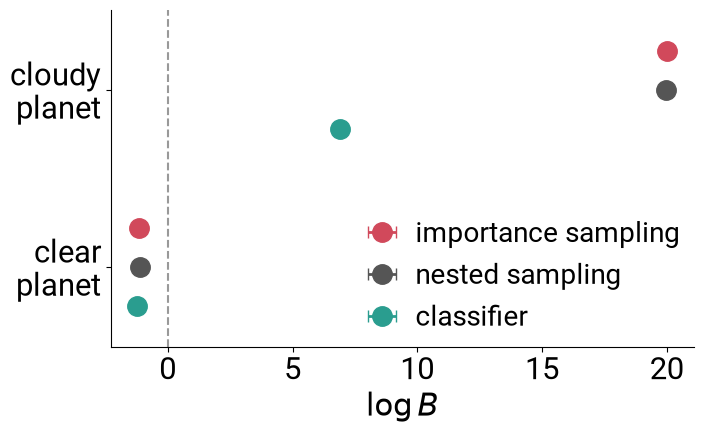
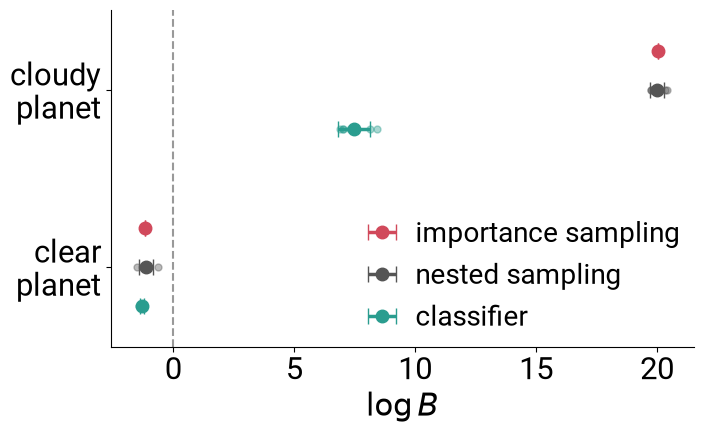
Slide 40: error bars over 6 runs per evidence estimate (IS, nested sampling, classifier)

diff --git a/tools/toy_mc.py b/tools/toy_mc.py
@@ -144,24 +144,28 @@ def figures():
     fig, ax = plt.subplots(figsize=(7.5, 4.8), dpi=100)
     methods = [("importance sampling", "is", "#d1495b"), ("nested sampling", "nested", "#555"),
                ("classifier", "clf", "#2a9d8f")]
+    def runs(o, key):
+        """log B(cloudy:clear) of every run: the original (seed 0) and the repetitions in D/rep/ (seeds 1..5)."""
+        R = D + "rep/"
+        lz = lambda f: float(np.load(f)["logz"])
+        seeds = range(1, 6) if os.path.isdir(R) else []
+        if key == "clf":
+            return [float(np.load(f"{D}classifier-logB-{o}.npy"))] + [float(np.load(f"{R}classifier-logB-{o}-s{s}.npy"))
+                                                                    for s in seeds]
+        if key == "nested":
+            return [lz(f"{D}cloudy-{o}/nested.npz") - lz(f"{D}clear-{o}/nested.npz")] + \
+                   [lz(f"{R}ns/cloudy-{o}-s{s}/nested.npz") - lz(f"{R}ns/clear-{o}-s{s}/nested.npz") for s in seeds]
+        return [lz(f"{D}cloudy-{o}/is.npz") - lz(f"{D}clear-{o}/is.npz")] + \
+               [lz(f"{R}cloudy-s{s}/{o}/is.npz") - lz(f"{R}clear-s{s}/{o}/is.npz") for s in seeds]
+
     for j, o in enumerate(OBS):
         for k, (label, key, c) in enumerate(methods):
-            if key == "clf":
-                p = f"{D}classifier-logB-{o}.npy"
-                if not os.path.exists(p):
-                    continue
-                v, e = float(np.load(p)), 0.0
-            else:
-                fs = [f"{D}{m}-{o}/{key}.npz" for m in MODELS]
-                if not all(os.path.exists(f) for f in fs):
-                    continue
-                a, b = np.load(fs[0]), np.load(fs[1])
-                ek = "logz_err" if key == "is" else "logzerr"
-                v = float(a["logz"] - b["logz"])
-                e = float(np.hypot(a[ek], b[ek])) if ek in a and ek in b else 0.0
+            v = np.array(runs(o, key))
             y = j + (k - 1) * 0.22
-            ax.errorbar([v], [y], xerr=[e], fmt="o", ms=14, color=c, elinewidth=2, capsize=4,
-                        label=label if j == 0 else None)
+            # each run as a faint dot, the mean with ±1 standard deviation over the runs
+            ax.plot(v, np.full(len(v), y), "o", ms=5, color=c, alpha=0.4, lw=0)
+            ax.errorbar([v.mean()], [y], xerr=[v.std(ddof=1) if len(v) > 1 else 0.0], fmt="o", ms=9, color=c,
+                        elinewidth=2.5, capsize=6, label=label if j == 0 else None)
     ax.axvline(0, color="#999", lw=1.5, ls="--")
     ax.set_yticks([0, 1])
     ax.set_yticklabels(["cloudy\nplanet", "clear\nplanet"])

diff --git a/todo.md b/todo.md
@@ -80,7 +80,7 @@ This file is the state of the project. Read it first at the start of every sessi
 - **Reference only:** `../2026 - SBI in HEP/` (SBI blueprint, 2023); the 2019 talks (Oxford, GRAPPA, DESY) list Bayesian model comparison among the uses of NRE.
 
 ## Pending
-- [ ] **T6.2.** Error bars on the evidence estimates (slide 40): 5 repetitions with new seeds (SEED env in toy_npe/toy_mc), same 500k training pairs per model. alan arrays: 40195 NPE retrain + IS (`.render/alan/mcrep_npe.sh`), 40196 nested sampling (`mcrep_nested.sh`), 40197 classifier (`mcrep_cls.sh`); outputs in `/scratch/.../mcrep/`. Seed 0 = existing results. Then: update `toy_mc.py figures` with error bars (Gilles must see before slide change? he asked for it).
+- [x] **T6.2.** Error bars on slide 40: 6 runs per estimate (seed 0 + 5 repetitions, alan arrays 40195/40196/40197; results fetched to `.render/data/toy-mc/rep/`), mean ± 1 std, runs as faint dots (`toy_mc.py figures`). Cloudy planet: NS +20.00 ± 0.30, IS +20.03 ± 0.01, classifier +7.46 ± 0.66 (saturated, unstable). Clear: NS -1.14 ± 0.29, IS -1.16 ± 0.003, classifier -1.30 ± 0.07. IS is ~30x more reproducible than NS, despite retraining.
 - [x] **T6.3.** Savage-Dickey check (no slide change): deep-cloud interval log Pc in [1.3, 1.5] is indistinguishable from clear (< 0.07 sigma); B(clear:cloudy) = P(interval | x) / 0.067. Clear planet: -1.17 (NS samples), -1.18 (IS), -1.25 (NPE) vs -1.11 from evidences. Cloudy planet: no samples in the interval, only log B > 5.6-6.1; NPE alone gives a wrong finite +5.25 from tail leakage.
 - [ ] **T6.1.** FMPE on the toy (`tools/toy_fmpe.py`, alan scripts `.render/alan/train_fmpe.sh`; local results in `.render/data/fmpe/`). Same embedding/pairs/noise as NPE; residual vector field, RK4 64 steps, exact divergence. Finding (2026-11-09): the vector field memorizes the training pairs (valid loss rises after ~5 epochs), so early stopping on validation; early-stopped posteriors are 1.5-2x wider than MCMC, IS efficiency 0.000-0.012 (NPE 0.57), log Z still matches NS (-55.8 vs -55.90). 500k: valid 2.61; width 128: 2.52; 2M pairs: 2.49. 10M pairs: the simulator costs ~58 ms/spectrum (not 4 ms), so 10M = ~160 CPU-h; first attempt (one 32-CPU job) cancelled; now sharded: alan array 40161 (20 x 500k, `.render/alan/sim_shards.sh`, OMP_NUM_THREADS=1) -> 40162 train, `/scratch/.../toy-10m/pairs-*.npz`. Possible talk message: FMPE is more flexible but needs more simulations. RESULT 10M (2026-11-09): no overfitting (best valid 2.32 at last epoch); posterior widths within ~8% of MCMC and means on MCMC (closer than NPE); IS efficiency 0.108 (NPE 0.57), log Z -55.71. ODE_STEPS=256: IS efficiency 0.087, log Z -55.77, so not solver error; FMPE posterior is slightly too narrow (light tails), which IS punishes; NPE (10-20% overdispersed) is the better proposal (0.57).
 

diff --git a/talk.md b/talk.md
@@ -820,7 +820,7 @@ On the right, a clear planet. Both models fit, the cloudy one by putting its clo
 
 class: middle
 
-<img src="figures/mc-bayes.png" style="display: block; margin: 0 auto; width: 46%;">
+<img src="figures/mc-bayes.png?v=2" style="display: block; margin: 0 auto; width: 46%;">
 
 The .bold[Bayes factor] $B = p(x | \text{cloudy}) \,/\, p(x | \text{clear})$ compares the evidence of the two models.
 
@@ -830,14 +830,14 @@ The .bold[Bayes factor] $B = p(x | \text{cloudy}) \,/\, p(x | \text{clear})$ com
 <div><span>Classifier</span>$$\log B \approx \log \frac{d_\psi(x)}{1 - d_\psi(x)}, \quad d_\psi(x) \approx p(\text{cloudy}|x)$$</div>
 </div>
 
-.footnote[Classifier: [Radev et al](https://arxiv.org/abs/2004.10629), 2020. Model comparison without the evidence: MIRA, [Sharief et al](https://arxiv.org/abs/2605.02014), ICML 2026.]
+.footnote[Error bars: one standard deviation over 6 runs with new seeds. Classifier: [Radev et al](https://arxiv.org/abs/2004.10629), 2020. Model comparison without the evidence: MIRA, [Sharief et al](https://arxiv.org/abs/2605.02014), ICML 2026.]
 
 
 ???
 
 The Bayes factor is the ratio of the evidences, the probabilities of the observation under each model. We estimate it in three ways.
 
-Nested sampling is the reference, with fifty thousand to a million likelihood calls per spectrum and model. Importance sampling gives the same answer, as the mean weight. A classifier needs no likelihood. Its log-odds give the Bayes factor, but they saturate on the cloudy planet, which is enough for a decision, not for a value.
+Nested sampling is the reference, with fifty thousand to a million likelihood calls per spectrum and model. Each estimate was repeated six times with new seeds, retraining the networks. Nested sampling varies by about 0.3 between runs. Importance sampling varies by 0.01, even though each run retrains the network. Importance sampling gives the same answer, as the mean weight. A classifier needs no likelihood. Its log-odds give the Bayes factor, but they saturate on the cloudy planet, which is enough for a decision, not for a value.
 
 ---
 
